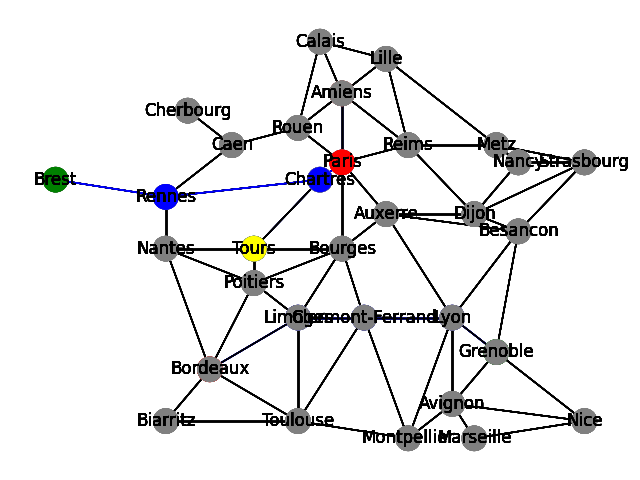
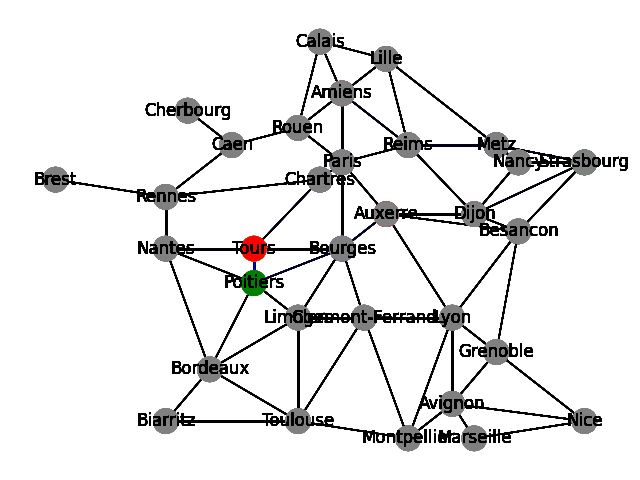
Ajout recalcul du trajet si chemin non optimal emprunté

diff --git a/src/view.py b/src/view.py
@@ -29,7 +29,7 @@ class View(Frame):
         self.frm_graph = Frame(master=self)
         View.img_France = PIL.ImageTk.PhotoImage(PIL.Image.open("france_graphe.png"))
         View.lbl_France = Label(master=self.frm_graph, image=View.img_France)
-        View.lbl_best_path = Label(master=self.frm_graph, text="Chemin idéal : ")
+        View.lbl_best_path = Label(master=self.frm_graph, text="Chemin idéal : {}".format(controller.Controller.shortest_path))
 
         View.frm_ui_choose_route = Frame(master=self)
 
@@ -43,8 +43,8 @@ class View(Frame):
         self.cmb_town_arrival = Combobox(master=self.frm_town_arrival, values=controller.Controller.list_towns_text)
         self.cmb_town_arrival.set(controller.Controller.list_towns_text[-1])
 
-        self.btn_confirm = Button(self.frm_ui_choose_route,text="Obtenir la trajectoire",command=lambda:controller.Controller.shortest_path_weight(controller.Controller, self.cmb_town_start.get(), self.cmb_town_arrival.get()))
-        self.btn_start_path = Button(self.frm_ui_choose_route,text="Démarrer le parcours",command=lambda:View.start_path(self))
+        self.btn_confirm = Button(self.frm_ui_choose_route,text="Obtenir la trajectoire", command=lambda:controller.Controller.shortest_path_weight(controller.Controller, self.cmb_town_start.get(), self.cmb_town_arrival.get()))
+        self.btn_start_path = Button(self.frm_ui_choose_route,text="Démarrer le parcours", command=lambda:View.start_path(self))
 
         self.frm_graph.pack(fill=Y, side=LEFT, expand=True)
         self.frm_ui_choose_route.pack(fill=Y, side=RIGHT, expand=True)
@@ -65,9 +65,12 @@ class View(Frame):
         self.btn_start_path.pack(fill=X)
 
     def start_path(self):
-        controller.Controller.neighbors_current_town = list(controller.Controller.G.neighbors(controller.Controller.current_town))
-        View.frm_ui_choose_route.pack_forget()
-        View.display_choose_next_town(self)
+        if not controller.Controller.shortest_path:
+            messagebox.showerror("Aucun chemin défini", "Il n'y a pas de chemin optimal défini. Veuillez appuyer sur \"Obtenir la trajectoire\" pour définir un chemin à emprunter.")
+        else:
+            controller.Controller.neighbors_current_town = list(controller.Controller.G.neighbors(controller.Controller.current_town))
+            View.frm_ui_choose_route.pack_forget()
+            View.display_choose_next_town(self)
 
     def display_choose_next_town(self):
         View.frm_ui_moving = Frame(master=self)
@@ -93,5 +96,11 @@ class View(Frame):
 
         if(controller.Controller.current_town == controller.Controller.arrival_town):
             messagebox.showinfo("Information", "Vous êtes arrivé.")
+            controller.Controller.shortest_path.clear()
+            View.lbl_best_path.configure(text="Chemin idéal : {}".format(controller.Controller.shortest_path))
             View.frm_ui_moving.pack_forget()
             View.frm_ui_choose_route.pack(fill=Y, side=RIGHT, expand=True)
+
+        elif(controller.Controller.current_town not in controller.Controller.shortest_path):
+            messagebox.showwarning("Chemin optimal non pris", "Vous avez emprunté un chemin non optimal. Il est possible que vous vous soyez trompé de chemin. Nous allons déterminer un nouveau chemin optimal depuis votre position actuelle.")
+            controller.Controller.shortest_path_weight(controller.Controller, controller.Controller.current_town, controller.Controller.arrival_town)

diff --git a/src/controller.py b/src/controller.py
@@ -1,5 +1,3 @@
-from email import message
-from tkinter import messagebox
 import view
 import model
 
@@ -7,18 +5,18 @@ import matplotlib.pyplot as plt
 import networkx as nx
 
 from tkinter import *
-
+from tkinter import messagebox
 
 class Controller:
     G = nx.Graph()
     pos = None
-    list_towns_text = None
+    list_towns_text = []
     start_town = None
     arrival_town = None
     current_town = None
-    shortest_path = None
-    shortest_path_edges = None
-    neighbors_current_town = None
+    shortest_path = []
+    shortest_path_edges = []
+    neighbors_current_town = []
 
     def __init__(self, model, view):
         self.model = model

diff --git a/src/main.py b/src/main.py
@@ -21,7 +21,6 @@ if __name__ == '__main__':
     environ["QT_AUTO_SCREEN_SCALE_FACTOR"] = "1"
     environ["QT_SCREEN_SCALE_FACTORS"] = "1"
     environ["QT_SCALE_FACTOR"] = "1"
-    print()
 
     app = App()
     app.mainloop()
